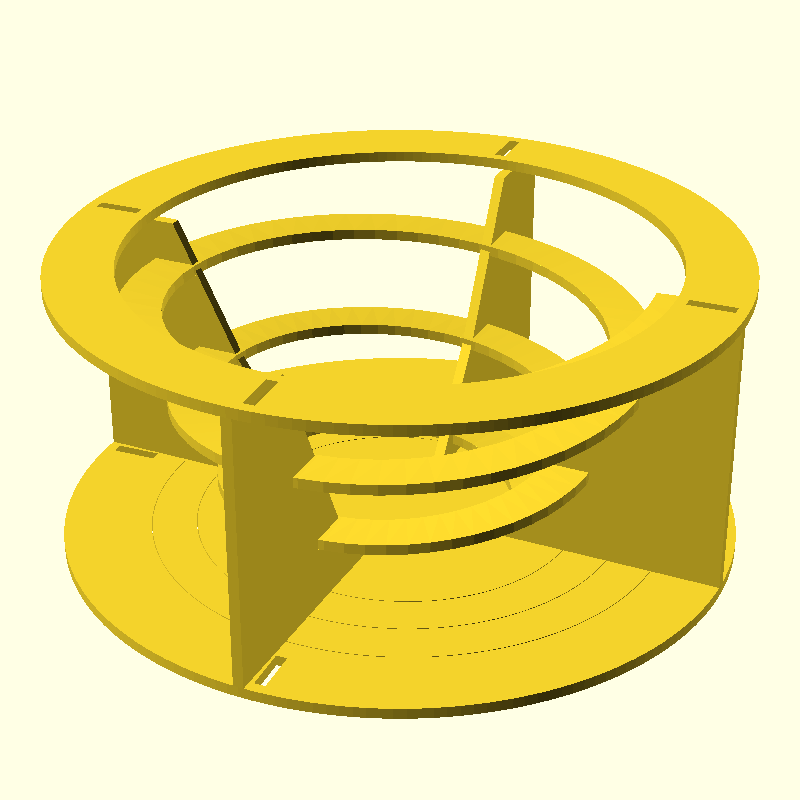
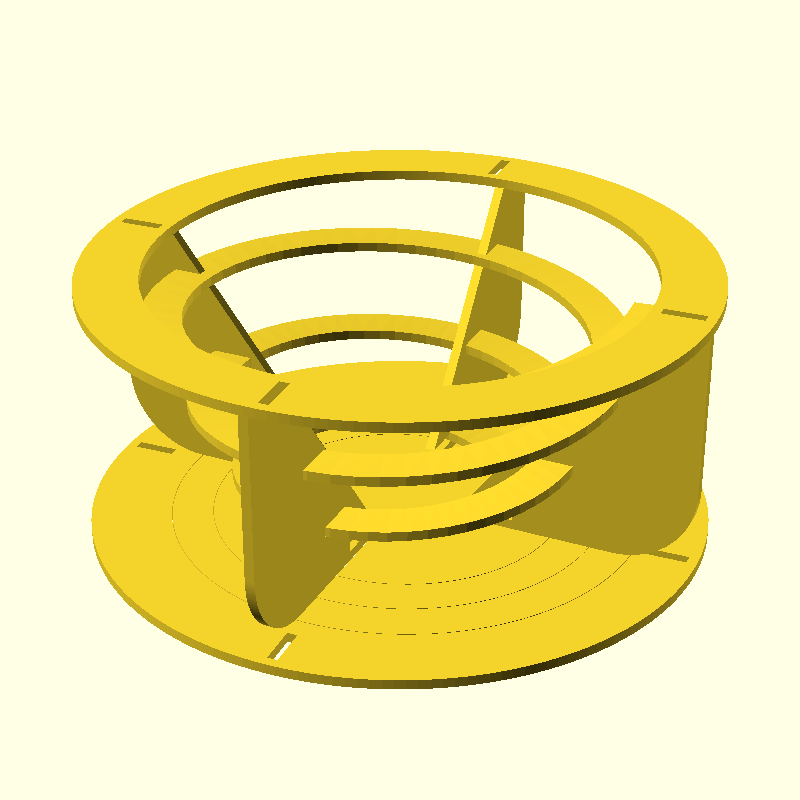
orpot: rib base cross-lap + diagonal cutoff + hub slots reach the seam
Rib base joint reworked (replacing the hook):
- Hub slots run from base_engage inside the hub OUT to the first cut seam
  (first_cut_r per azimuth) so they're not blind pockets — the rib slides in
  through the seam and mates. radial_slot simplified to lie on +x.
- Rib keeps the DIAGONAL cutoff (triangle, not a square): inner-bottom ->
  diagonal to the rim -> flat top -> rounded outer-bottom corner (outer_fillet
  = 1in). Spiral threads through full-width slots; a horizontal slot 3mm above
  the bottom cross-laps the hub disc (disc rides 3mm up, rib bottom = feet). No
  more hook. Ring top slot stays closed.
- Assembly: stretch spiral, slide ribs in from outside, set the ring on top.
- Guard is now area-based (DISC_AREA) since ribs have internal holes; overlap
  still caught. Stock restriction dropped for now: layout_side=310.

Changed region(s): [[0.0312, 0.1562, 0.9688, 0.9062], [0.375, 0.75, 0.4062, 0.7812]]

diff --git a/orpot/orpot_gcode.py b/orpot/orpot_gcode.py
@@ -115,20 +115,25 @@ def main() -> int:
     combined.write_text(svg.replace("</svg>", polylines + "\n</svg>"))
 
     # guard: if parts overlap in the layout they fuse into one outline (a rib
-    # merges into the disc). Detect it by comparing the closed-loop count to what
-    # the .scad expects, so a too-small layout_side can't silently ruin a cut.
-    m = re.search(r'"EXPECT_CLOSED",\s*(\d+)', proc.stderr)
+    # merges into the disc), so a too-small layout_side can't silently ruin a cut.
+    # A merge makes the largest closed loop = disc + rib area, well over the disc.
+    m = re.search(r'"DISC_AREA",\s*([0-9.]+)', proc.stderr)
     if m:
         sys.path.insert(0, str(DIR))
         import svg2laser as _s
 
-        closed = sum(1 for _, c in _s.svg_subpaths(combined.read_text())[0] if c)
-        expect = int(m.group(1))
-        if closed < expect:
+        disc_area = float(m.group(1))
+        areas = [
+            abs(_s._signed_area(p))
+            for p, c in _s.svg_subpaths(combined.read_text())[0]
+            if c
+        ]
+        biggest = max(areas) if areas else 0
+        if biggest > disc_area * 1.05:
             raise SystemExit(
-                f"parts overlap: found {closed} closed outlines, expected {expect} "
-                "— a rib is fused into the disc. Increase layout_side in orpot.scad "
-                "(>=242 for the default disc) and re-run."
+                f"parts overlap: a closed outline is {biggest:.0f}mm^2 vs the disc's "
+                f"{disc_area:.0f}mm^2 — a rib is fused into the disc. Increase "
+                "layout_side in orpot.scad and re-run."
             )
 
     # 4: hand off to svg2laser (open polylines -> single-kerf; closed -> outline)
